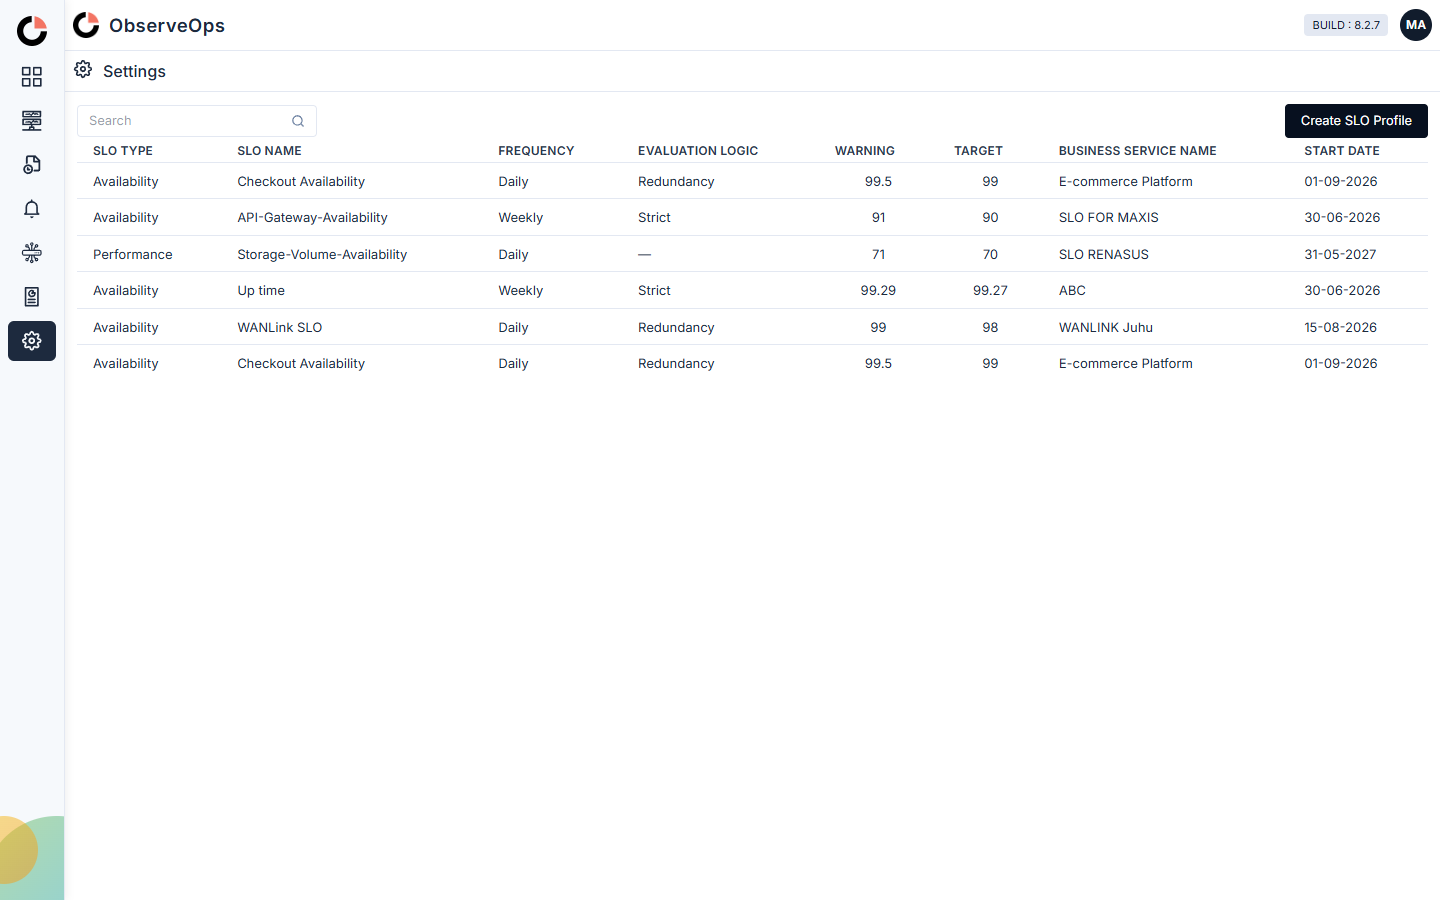
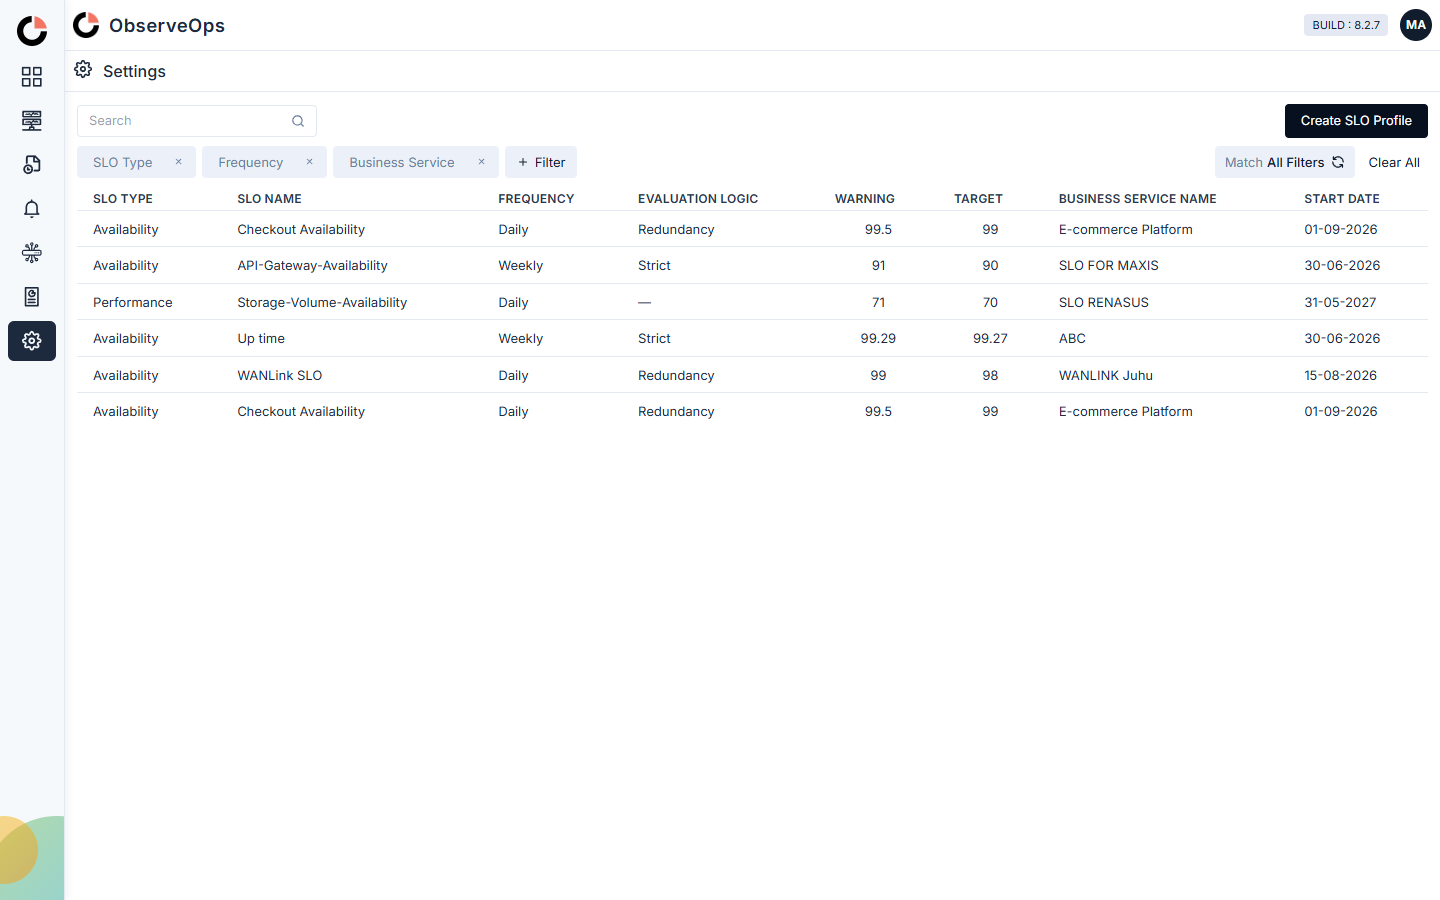
Add the filter bar to the SLO Profile list
SLO Type · Frequency · Business Service · + Filter, above the profile table — one
obs-filters kind="bar", the same element the Report module already uses, with its
fields built from the store so the value pickers cannot drift from the rows on screen.

The product draws those three leading chips with `defaultChips` — non-removable
captions the module declares — and registry/filters.json documents that API twice.
The element does not implement it: only `fields`, `value` and `match` exist, and both
a defaultChips property and a default-chips attribute are silently ignored. Seeding
`value` with one valueless condition per field renders the same row through the
documented API, so that is what ships. Filed as DS-GAPS G50, together with the two
cosmetic deviations it leaves — the chips keep a removable ×, and Match/Clear All show
from first paint — neither reachable, since the shadow root exposes no `part` at all.

A valueless chip is a leading chip at rest, so it does not filter; otherwise the table
would open filtered to nothing. Every write to table.rows goes through one render(), so
a filtered view survives creating a profile instead of being replaced by the full store.

Verified by rendering, not reading: scripts/verify-slo-filters.mjs drives it in real
Chrome — 8 checks, real mouse clicks through the field, operator and value pickers,
including a two-condition AND, Clear All, and a create under an active filter. jsdom
[…]

diff --git a/src/slo-profile/screen.test.js b/src/slo-profile/screen.test.js
@@ -82,3 +82,126 @@ describe('the two views', () => {
     })
   })
 })
+
+// The filter bar (screenshot: SLO Type · Frequency · Business Service · + Filter).
+//
+// obs-filters has no `defaultChips` — the element exposes only `fields`, `value` and `match`
+// (probed in real Chrome; setting defaultChips or default-chips does nothing). The leading chips
+// are therefore seeded as valueless conditions through the documented `value` API, which renders
+// the same chip row. See docs/DS-GAPS.md G37.
+describe('the filter bar', () => {
+  let root
+  const bar = () => root.querySelector('#slo-profile-filters')
+  const table = () => root.querySelector('#slo-profile-table')
+  const names = () => table().rows.map((r) => r.name)
+
+  // The DS delivers its payload in event.detail as an array — the same unwrap
+  // report-categories/screen.js does.
+  const change = (conditions, match = 'all') =>
+    bar().dispatchEvent(new CustomEvent('change', { detail: [{ conditions, match }] }))
+
+  beforeEach(() => { root = document.createElement('div'); document.body.append(root); mount(root) })
+
+  it('sits between the toolbar and the table', () => {
+    expect(bar()).not.toBeNull()
+    expect(bar().getAttribute('kind')).toBe('bar')
+    const section = root.querySelector('#slo-profile-list')
+    const order = [...section.children].map((c) => c.id || c.tagName.toLowerCase())
+    expect(order.indexOf('slo-profile-filters')).toBeGreaterThan(order.indexOf('obs-toolbar'))
+    expect(order.indexOf('slo-profile-filters')).toBeLessThan(order.indexOf('slo-profile-table'))
+  })
+
+  it('offers exactly the three fields from the screenshot, in order', () => {
+    expect(bar().fields.map((f) => f.label)).toEqual(['SLO Type', 'Frequency', 'Business Service'])
+    expect(bar().fields.map((f) => f.key)).toEqual(['type', 'frequency', 'service'])
+  })
+
+  it('draws its values from the store, deduplicated, so the pickers match the table', () => {
+    const byKey = Object.fromEntries(bar().fields.map((f) => [f.key, f.values]))
+    expect(byKey.type).toEqual(['Availability', 'Performance'])
+    expect(byKey.frequency).toEqual(['Daily', 'Weekly'])
+    expect(byKey.service).toContain('WANLINK Juhu')
+    expect(new Set(byKey.service).size).toBe(byKey.service.length)
+  })
+
+  it('seeds the three leading chips as valueless conditions', () => {
+    expect(bar().value).toEqual([
+      { field: 'type', operator: '=', value: [] },
+      { field: 'frequency', operator: '=', value: [] },
+      { field: 'service', operator: '=', value: [] },
+    ])
+  })
+
+  it('shows every row until a chip is given a value', () => {
+    expect(names()).toHaveLength(5)
+  })
+
+  it('filters the table on a single condition', () => {
+    change([{ field: 'type', operator: '=', value: ['Performance'] }])
+    expect(names()).toEqual(['Storage-Volume-Availability'])
+  })
+
+  it('ANDs conditions under Match All', () => {
+    change([
+      { field: 'type', operator: '=', value: ['Availability'] },
+      { field: 'frequency', operator: '=', value: ['Weekly'] },
+    ], 'all')
+    expect(names()).toEqual(['API-Gateway-Availability', 'Up time'])
+  })
+
+  it('ORs conditions under Match Any', () => {
+    change([
+      { field: 'frequency', operator: '=', value: ['Weekly'] },
+      { field: 'service', operator: '=', value: ['WANLINK Juhu'] },
+    ], 'any')
+    expect(names()).toEqual(['API-Gateway-Availability', 'Up time', 'WANLink SLO'])
+  })
+
+  it('accepts a scalar condition value as well as a list', () => {
+    change([{ field: 'frequency', operator: '=', value: 'Daily' }])
+    expect(names()).toHaveLength(3)
+  })
+
+  // A valueless chip is the resting state of a default chip — it must not filter everything out.
+  it('ignores a chip that has no value yet', () => {
+    change([
+      { field: 'type', operator: '=', value: ['Availability'] },
+      { field: 'frequency', operator: '=', value: [] },
+    ])
+    expect(names()).toHaveLength(4)
+  })
+
+  it('restores every row when the filters are cleared', () => {
+    change([{ field: 'type', operator: '=', value: ['Performance'] }])
+    expect(names()).toHaveLength(1)
+    change([])
+    expect(names()).toHaveLength(5)
+  })
+
+  // Tolerate the bare conditions array obs-filters emitted before elements@0.1.150, exactly as
+  // report-categories/screen.js does.
+  it('tolerates the pre-0.1.150 bare-array change payload', () => {
+    bar().dispatchEvent(new CustomEvent('change', {
+      detail: [[{ field: 'type', operator: '=', value: ['Performance'] }]],
+    }))
+    expect(names()).toEqual(['Storage-Volume-Availability'])
+  })
+
+  // onCreate re-reads the store, and must not smuggle a filtered-out row back onto the table.
+  it('keeps the filter applied when a profile is created', () => {
+    change([{ field: 'type', operator: '=', value: ['Performance'] }])
+    root.querySelector('#slo-profile-create').click()
+    root.querySelector('#slo-form-create').click()
+    // The created profile is an Availability one, so the Performance filter still holds.
+    expect(names()).toEqual(['Storage-Volume-Availability'])
+  })
+
+  // A new profile can introduce a Business Service the pickers have never seen.
+  it('refreshes the field values after a profile is created', () => {
+    root.querySelector('#slo-profile-create').click()
+    root.querySelector('#slo-form-create').click()
+    const byKey = Object.fromEntries(bar().fields.map((f) => [f.key, f.values]))
+    expect(byKey.service).toContain('E-commerce Platform')
+    expect(new Set(byKey.service).size).toBe(byKey.service.length)
+  })
+})

diff --git a/src/slo-profile/screen.js b/src/slo-profile/screen.js
@@ -9,6 +9,14 @@ import './sloProfile.css'
 
 export const meta = { pageHeader: { heading: 'Settings', icon: 'settings' } }
 
+// The filter bar's leading chips, in the order the screenshot shows them. `key` is the row field
+// the chip filters on; `label` is the chip's caption.
+const FILTER_FIELDS = [
+  { key: 'type', label: 'SLO Type' },
+  { key: 'frequency', label: 'Frequency' },
+  { key: 'service', label: 'Business Service' },
+]
+
 const TEMPLATE = `
   ${pageHeaderHTML({ heading: 'Settings', icon: 'settings' })}
   <div class="app-shell__body">
@@ -18,6 +26,11 @@ const TEMPLATE = `
           <obs-input slot="start" type="search" placeholder="Search" class="content-toolbar__search"></obs-input>
           <obs-button id="slo-profile-create" variant="primary">Create SLO Profile</obs-button>
         </obs-toolbar>
+
+        <!-- The DS FilterBar, the same obs-filters kind="bar" report-categories uses: it brings its
+             own "+ Filter", Match All/Any and Clear All, so none of that is ours. -->
+        <obs-filters id="slo-profile-filters" kind="bar"></obs-filters>
+
         <obs-table id="slo-profile-table" row-key="id" page-size="0" sticky-header max-height="100%"></obs-table>
       </section>
       <section id="slo-profile-form" hidden></section>
@@ -42,7 +55,64 @@ export function mount(root) {
     { key: 'service', title: 'BUSINESS SERVICE NAME', width: 220, sortable: true },
     { key: 'start', title: 'START DATE', width: 140 },
   ]
-  table.rows = store.rows()
+
+  // --- Filter bar ---------------------------------------------------------------------------------
+  // obs-filters kind="bar". Contract as of elements@0.1.150:
+  //   fields  -> [{ key, label, type:'enum', values:[...] }]
+  //   value   -> active conditions [{ field, operator, value }]  (value=[] renders just "+ Filter")
+  //   change  -> emits { conditions, match }
+  //
+  // The screenshot's three leading chips are the product's `defaultChips` — non-removable captions
+  // the module declares. The ELEMENT has no defaultChips: probing it in real Chrome showed only
+  // `fields`, `value` and `match`, and both a defaultChips property and a default-chips attribute
+  // were ignored. Seeding `value` with one VALUELESS condition per field renders the same chip row
+  // through the documented API, so that is what we do. The two cosmetic differences it leaves — the
+  // chips keep a removable x, and Match/Clear All show before anything is applied — are DS-GAPS G37.
+  const filters = root.querySelector('#slo-profile-filters')
+  let conditions = FILTER_FIELDS.map((f) => ({ field: f.key, operator: '=', value: [] }))
+  let matchMode = 'all'
+
+  const distinct = (key) => [...new Set(store.rows().map((r) => r[key]))].sort()
+
+  // Re-read after every store write: a created profile can introduce a Business Service the
+  // pickers have never seen.
+  const syncFields = () => {
+    filters.fields = FILTER_FIELDS.map((f) => ({ ...f, type: 'enum', values: distinct(f.key) }))
+  }
+
+  /** A condition's value may be a single value or a list — normalise before comparing. */
+  const matches = (row, condition) => {
+    const wanted = Array.isArray(condition.value) ? condition.value : [condition.value]
+    return wanted.includes(row[condition.field])
+  }
+
+  // A chip with no value yet is a default chip at rest, not a filter that matches nothing.
+  const active = () => conditions.filter((c) => (Array.isArray(c.value) ? c.value.length : c.value != null && c.value !== ''))
+
+  function applyFilters(rows) {
+    const on = active()
+    if (!on.length) return rows
+    const test = (row) => on.map((c) => matches(row, c))
+    return rows.filter((row) => (matchMode === 'any' ? test(row).some(Boolean) : test(row).every(Boolean)))
+  }
+
+  // Every write to table.rows goes through here, so a filtered view survives a create.
+  const render = () => { table.rows = applyFilters(store.rows()) }
+
+  syncFields()
+  filters.value = conditions
+  render()
+
+  // DS events deliver the value in event.detail as an array — unwrap.
+  const detailValue = (event) => (Array.isArray(event.detail) ? event.detail[0] : event.detail)
+
+  filters.addEventListener('change', (event) => {
+    const next = detailValue(event)
+    // { conditions, match } since 0.1.150; tolerate the bare array the element emitted before it.
+    conditions = Array.isArray(next) ? next : (next?.conditions ?? [])
+    matchMode = Array.isArray(next) ? 'all' : (next?.match ?? 'all')
+    render()
+  })
 
   const list = root.querySelector('#slo-profile-list')
   const form = root.querySelector('#slo-profile-form')
@@ -58,7 +128,8 @@ export function mount(root) {
       // wan-link-discovery/profileStore.js already use for their own Create flows.
       onCreate: (draft) => {
         store.add(draft)
-        table.rows = store.rows()
+        syncFields()
+        render()
         showList()
       },
     })

diff --git a/docs/DS-GAPS.md b/docs/DS-GAPS.md
@@ -50,6 +50,7 @@ screen (2026-08-13). Both are discoverability/capability gaps that cost real tim
 | **G47** no card / tile component | 🆕 **OPEN** | 0 of 47 elements match `card\|tile`. `src/slo-list/sloList.css` hand-rolls its tile grid, following the precedent `src/app/cardList.js` already set. **Second instance of G31** |
 | **G48** `obs-button` has no pressed/toggled state | 🆕 **OPEN** | Its 9 attributes are exactly `variant, size, disabled, loading, outline, square, block, shape, squared` — nothing for "currently engaged". The SLO list view toggle co-opts `variant` (`primary` = engaged) instead |
 | **G49** `obs-select`/`obs-tags` have no `label`; `obs-input` does | 🆕 **OPEN** | Shipped a real bug: 4 fields rendered with no visible label, past a 661-test suite and a 19-check probe, because the test asserted the ignored attribute was present. External `<label for>` doesn't associate with a custom element either. Second time this exact gap has bitten this project |
+| **G50** `obs-filters` kind="bar" has no `defaultChips` | 🆕 **OPEN** | The element exposes only `fields`, `value` and `match`; a `defaultChips` property and a `default-chips` attribute are both silently ignored, yet the bar's own spec documents `defaultChips` as the FilterBar API and says the leading chips "come from the MODULE". Seeding `value` with valueless conditions is the only way to draw them — and they arrive removable, with Match/Clear All showing before anything is applied |
 
 | Gap | Status | Evidence |
 |---|---|---|
@@ -1993,3 +1994,59 @@ functional fix at all.
 **Ask:** a `label` attribute on `obs-select` and `obs-tags` matching `obs-input`'s exactly, or —
 failing that — documented `ElementInternals`/`attachInternals().labels` support so an external
 `<label for>` actually associates with the control.
+
+### New finding — G50: `obs-filters` kind="bar" has no `defaultChips`
+
+**Class: DS — capability, with a documentation contradiction on top.**
+
+The SLO Profile screen needed the product's standard leading filter chips — `SLO Type`,
+`Frequency`, `Business Service`, then `+ Filter`. In the shipped product those are **default
+chips**: captions the module declares, which carry **no ×** because they are not removable.
+
+`registry/filters.json` documents them, twice, as the module's job:
+
+- `apis.FilterBar.props.defaultChips` — *"Array — the leading non-removable chips declared by the
+  consuming module (e.g. Groups/Types/Severity)"*
+- and a `note` under the same block: *"PITFALL: the leading default-chips come from the MODULE via
+  defaultChips, not the base bar — read a real consumer to reproduce faithfully."*
+
+**The element does not implement it.** Probed live in real Chrome against elements 0.1.167, five
+configurations side by side:
+
+| attempt | result |
+|---|---|
+| `el.defaultChips = [...]` (property) | ignored — becomes a dead JS expando; the bar renders only `+ Filter` |
+| `default-chips='[…]'` (attribute) | ignored; worse, the element fell back to its **built-in demo data** (`Select Filter = MySQL (+1)`, `AWS Auto Scaling (+3)`) |
+| `el.fields` + `el.value = []` | `+ Filter` alone — the report-categories baseline |
+| `el.value` = one **valueless** condition per field | ✅ draws `SLO Type ×` `Frequency ×` `Business Service ×` `+ Filter` |
+| `el.value` = one real condition | one chip + `+ Filter`, Match hidden (correct per G17) |
+
+Feature-detection confirms it: `['fields','value','match','defaultChips','fieldSchema'].filter(p => p in el)`
+returns exactly `["fields","value","match"]`. Neither documented name — `defaultChips` nor
+`fieldSchema` — exists on the element.
+
+**And there is no styling escape hatch.** `obs-filters`' shadow root contains **zero `part`
+attributes** (`shadowRoot.querySelectorAll('[part]')` → `[]`), so the chips cannot be restyled from
+outside at all. The internal structure the consumer would need to reach is
+`.chip-wrap > .chip > .seg.field + .seg.op + .seg.val > obs-select`, plus `.seg-x` for the ×.
+
+**Workaround shipped** (`src/slo-profile/screen.js`): seed `value` with one valueless condition per
+field. It draws the right row through the documented `value` API and filters correctly — verified
+with 8 real-mouse checks in Chrome, including a two-condition AND and `Clear All`. Two cosmetic
+deviations remain and are **not fixable without reaching into the shadow DOM**:
+
+1. the seeded chips carry a removable `×` — real default chips have none;
+2. `Match All Filters` and `Clear All` show from first paint, because three conditions exist as far
+   as the element is concerned (G17 only hides Match below two).
+
+A third, subtler consequence: because the seeded chips are real conditions, **`+ Filter` appends a
+fourth chip** rather than filling one of the three, and **abandoning a half-built chip emits
+`{conditions: [], match: 'all'}`** — dropping the seeds from the consumer's state while the bar
+still paints them. Benign here (no conditions = no filtering) but it makes `el.value` and the
+rendered bar disagree, which is the same family as **G16**.
+
+**Ask:** implement `defaultChips` on `obs-filters` as `registry/filters.json` already documents it —
+non-removable leading chips that do not count as conditions for the Match/Clear All thresholds.
+Failing that, expose `::part()` hooks for `chip`, `chip-remove`, `bar-right` so a consumer can at
+least suppress the affordances the product doesn't show. And either way, correct the registry: it
+currently documents an API the element does not have.

diff --git a/docs/superpowers/specs/2026-09-08-slo-ds-port-design.md b/docs/superpowers/specs/2026-09-08-slo-ds-port-design.md
@@ -74,6 +74,26 @@ heading. See phase 1 §4.
 No icon, no component. This is not a styling preference: **G1** records that `obs-table` cannot put
 a component or an icon in a cell — re-found twice since, as **G23** and **G39** — and a plain-text column simply does not need one.
 
+**The filter bar sits between the toolbar and the table** — `SLO Type · Frequency ·
+Business Service · + Filter`, the three fields the product's own SLO Profile list filters on. One
+`obs-filters kind="bar"`, the same element the Report module uses, with `fields` built from the
+store so the value pickers can never drift from the rows on screen.
+
+**The three leading chips are seeded as valueless conditions, not as default chips.** The product
+draws them with `defaultChips` — non-removable captions the module declares — and
+`registry/filters.json` documents that API twice. **The element does not implement it**: only
+`fields`, `value` and `match` exist, and both a `defaultChips` property and a `default-chips`
+attribute are silently ignored. Seeding `value` with one valueless condition per field renders the
+same row through the documented API, which is what ships here. Two cosmetic deviations follow and
+are unreachable without reaching into a shadow root that exposes **no `part` attributes at all**:
+the chips keep a removable `×`, and `Match All Filters` / `Clear All` show from first paint. Filed
+as **G50**.
+
+**A valueless chip does not filter.** It is the resting state of a leading chip, so the screen
+ignores any condition whose value is empty — otherwise the table would open filtered to nothing.
+Every write to `table.rows` goes through one `render()`, so a filtered view survives creating a
+profile rather than being silently replaced by the full store.
+
 ### View 2 — the Create form (artboard 2)
 
 `SLO_setup_2` field for field, with **Evaluation Logic as the only addition**, full width between
